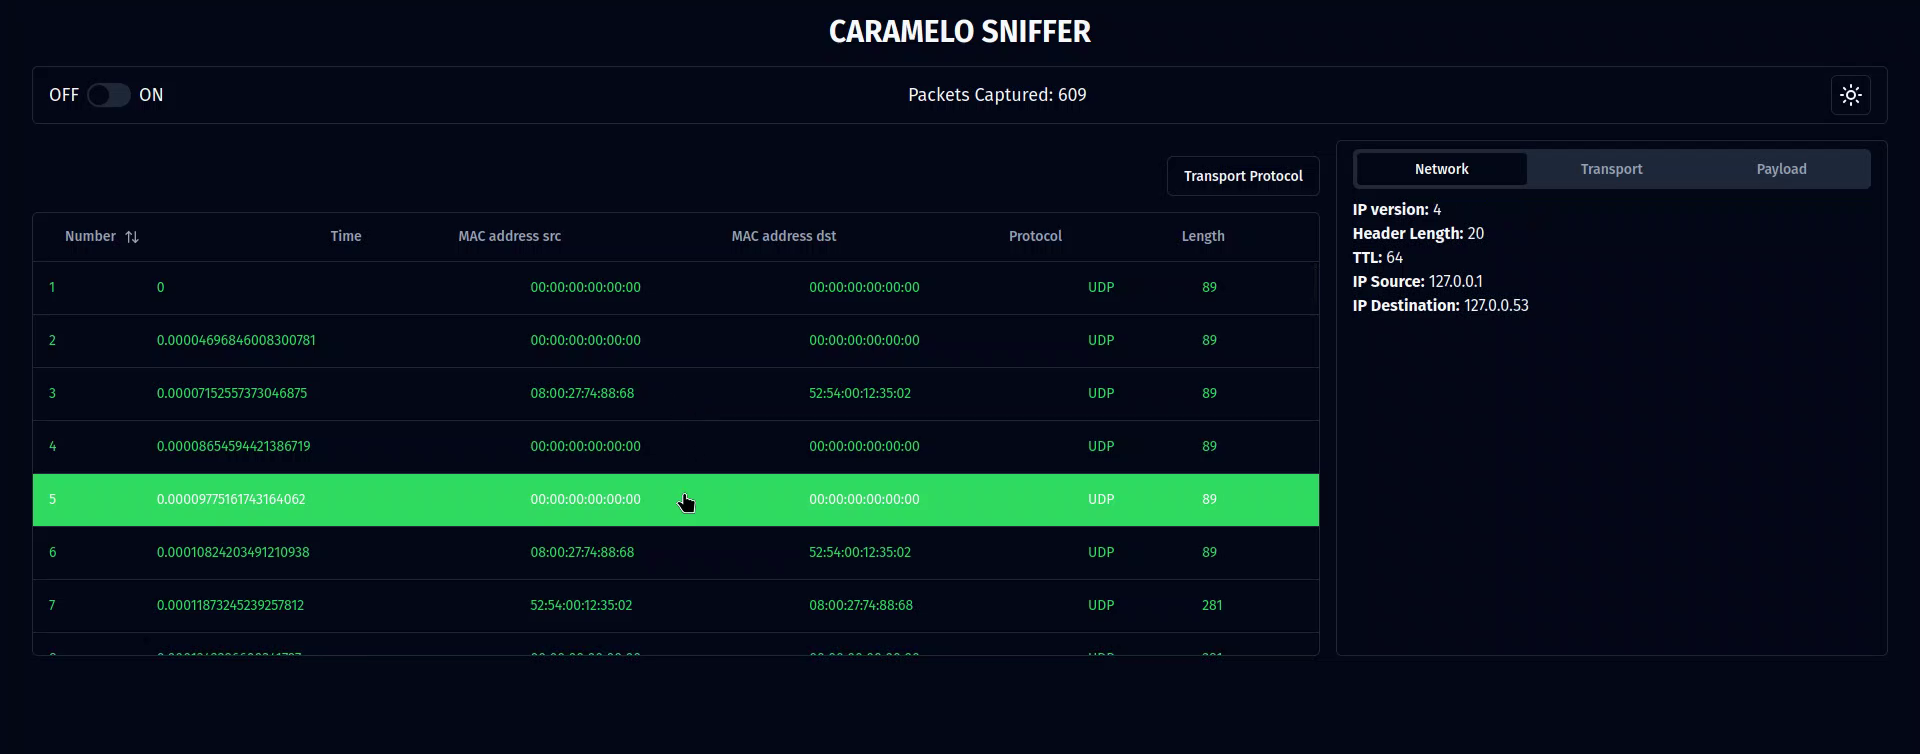
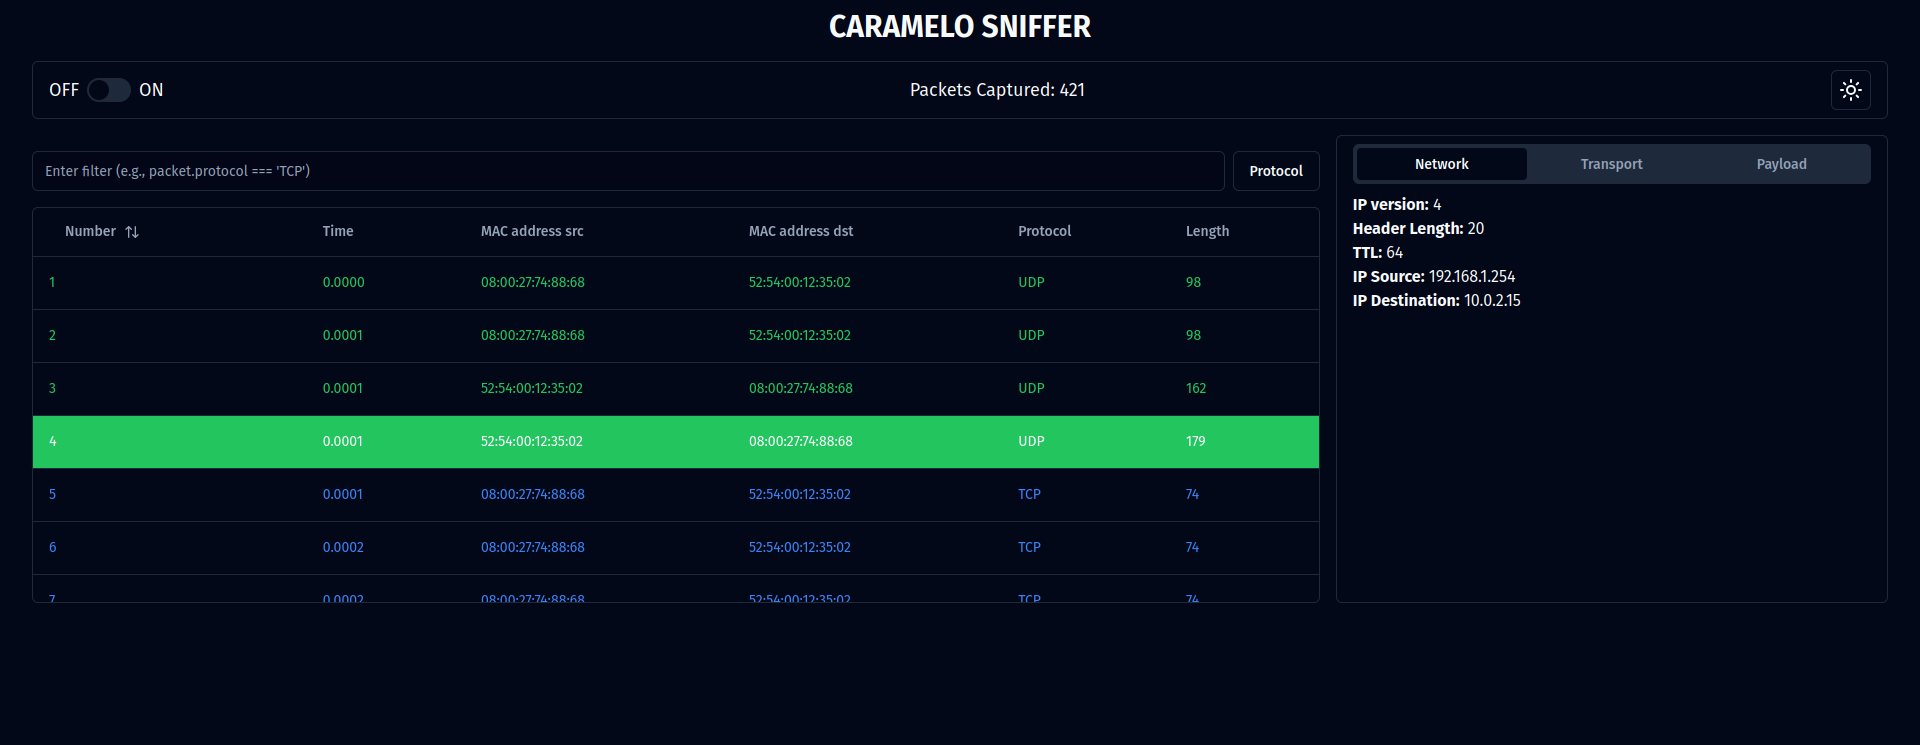
update preview image

diff --git a/client/src/components/packet-details.tsx b/client/src/components/packet-details.tsx
@@ -71,11 +71,11 @@ const PacketDetails = ({ packet }: { packet: Packet | null }) => {
         </TabsContent>
         <TabsContent value="transport">
           {rest ? (
-            packet.transport_protocol === "UDP" ? (
+            packet.protocol === "UDP" ? (
               <>
                 <p>
                   <span className="font-bold">Protocol:</span>{" "}
-                  {packet.transport_protocol}
+                  {packet.protocol}
                 </p>
                 <p>
                   <span className="font-bold">Port Source:</span>{" "}
@@ -89,11 +89,11 @@ const PacketDetails = ({ packet }: { packet: Packet | null }) => {
                   <span className="font-bold">Length:</span> {rest.udp_length}
                 </p>
               </>
-            ) : packet.transport_protocol === "TCP" ? (
+            ) : packet.protocol === "TCP" ? (
               <>
                 <p>
                   <span className="font-bold">Protocol:</span>{" "}
-                  {packet.transport_protocol}
+                  {packet.protocol}
                 </p>
                 <p>
                   <span className="font-bold">Port Source:</span>{" "}
@@ -112,11 +112,11 @@ const PacketDetails = ({ packet }: { packet: Packet | null }) => {
                   {rest.acknowledgment_number}
                 </p>
               </>
-            ) : packet.transport_protocol === "ICMP" ? (
+            ) : packet.protocol === "ICMP" ? (
               <>
                 <p>
                   <span className="font-bold">Protocol:</span>{" "}
-                  {packet.transport_protocol}
+                  {packet.protocol}
                 </p>
                 <p>
                   <span className="font-bold">ICMP Type:</span> {rest.icmp_type}

diff --git a/client/src/app/page.tsx b/client/src/app/page.tsx
@@ -259,7 +259,7 @@ export default function Home() {
 
       <div className="flex flex-col md:flex-row gap-4">
         <div className="w-full md:w-[70%]">
-          <DataTable columns={columns} data={PACKETS_DATA} onRowClick={setActivePacket} />
+          <DataTable columns={columns} data={packets} onRowClick={setActivePacket} />
         </div>
         <PacketDetails packet={activePacket} />
       </div>
